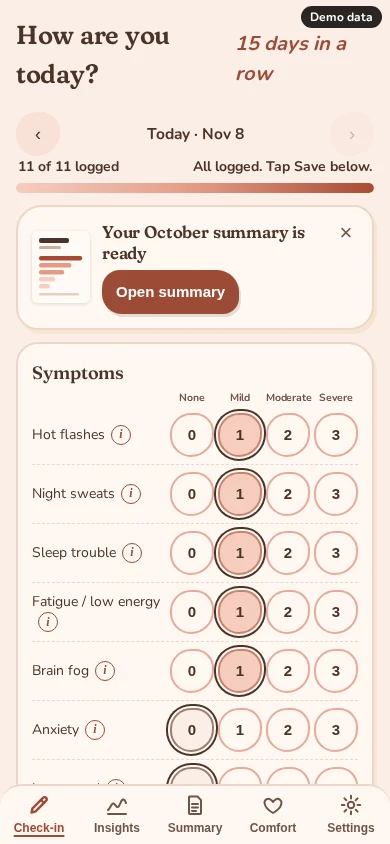
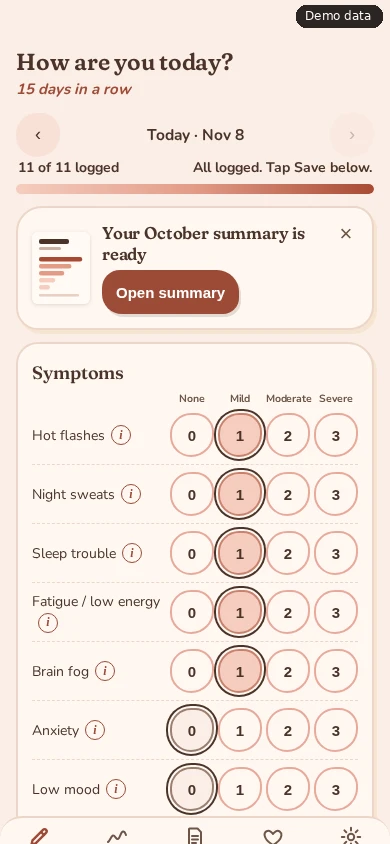
Stack narrow check-in header and separate demo badges from screenshots

diff --git a/index.html b/index.html
@@ -36,10 +36,10 @@ section{padding:56px 0}section.alt{background:var(--card);border-block:1px solid
 .accent{font-family:Nunito,Arial,sans-serif;font-style:italic;color:var(--terra);font-size:clamp(13px,4.2vw,18px);line-height:1.25;margin:0 0 8px;display:block}
 .hero{display:grid;gap:36px;align-items:center;padding:24px 0 48px}
 @media(min-width:860px){.hero{grid-template-columns:1.1fr .9fr}.cols{display:grid;grid-template-columns:1fr 1fr;gap:48px;align-items:center}.three{display:grid;grid-template-columns:repeat(3,1fr);gap:24px}}
-.phone{margin:0 auto;max-width:300px;position:relative}
+.phone{margin:36px auto 0;max-width:300px;position:relative}
 .phone img{width:100%;height:auto;display:block;border-radius:28px;border:8px solid #2b2523;box-shadow:0 18px 40px rgba(60,40,30,.18);background:#fff}
 .phone.flat img{border-radius:16px;border-width:1px;border-color:var(--line)}
-.demo{position:absolute;top:14px;right:-6px;background:#2b2523;color:#fff;font-size:13px;font-weight:800;letter-spacing:.04em;padding:4px 10px;border-radius:999px}
+.demo{position:absolute;top:-32px;right:0;background:#2b2523;color:#fff;font-size:13px;font-weight:800;letter-spacing:.04em;padding:4px 10px;border-radius:999px}
 figcaption{font-size:15px;color:var(--mute);text-align:center;margin-top:10px}
 .prob{list-style:none;padding:0;margin:0;display:grid;gap:14px}.prob li{background:var(--card);border:1px solid var(--line);border-radius:18px;padding:16px 18px}
 .step{background:var(--card);border:1px solid var(--line);border-radius:22px;padding:20px;margin-bottom:20px}.step b.n{display:inline-grid;place-items:center;width:34px;height:34px;border-radius:50%;background:var(--rose);color:var(--terraD);margin-right:8px}

diff --git a/sw.js b/sw.js
@@ -1,9 +1,9 @@
-// Root service worker, retired in peri-v30 (Nov 2026). The app moved to /app/ (its own SW, scope /app/).
+// Root service worker, retired in peri-v31 (Nov 2026). The app moved to /app/ (its own SW, scope /app/).
 // Older installs registered this file with scope "/" and would keep serving the old app over the landing page.
 // This version: takes over at once, deletes old root app caches, unregisters itself, and reloads open windows
 // so they get the network copy (landing page, which sends home-screen launches on to /app/).
 // It never touches localStorage, so her entries (key periTracker.v1, same origin) are untouched.
-const KEEP=['peri-v30'];// the /app/ SW's cache; nights-*/strong-* are not peri-* so untouched
+const KEEP=['peri-v31'];// the /app/ SW's cache; nights-*/strong-* are not peri-* so untouched
 self.addEventListener('install',()=>self.skipWaiting());
 self.addEventListener('activate',e=>{e.waitUntil((async()=>{
  const k=await caches.keys();await Promise.all(k.filter(x=>x.startsWith('peri-')&&!KEEP.includes(x)).map(x=>caches.delete(x)));

diff --git a/app/sw.js b/app/sw.js
@@ -1,4 +1,4 @@
-const C='peri-v30',A=['./','index.html','manifest.webmanifest','icon-192.png','icon-512.png','icon-512-maskable.png','icon-180.png','../privacy.html','../health-data.html','../terms.html','../accessibility.html','fonts/fraunces-latin.woff2','fonts/nunito-latin.woff2'];
+const C='peri-v31',A=['./','index.html','manifest.webmanifest','icon-192.png','icon-512.png','icon-512-maskable.png','icon-180.png','../privacy.html','../health-data.html','../terms.html','../accessibility.html','fonts/fraunces-latin.woff2','fonts/nunito-latin.woff2'];
 self.addEventListener('install',e=>{e.waitUntil(caches.open(C).then(c=>c.addAll(A)))});
 self.addEventListener('message',e=>{if(e.data&&e.data.type==='SKIP_WAITING')self.skipWaiting()});
 self.addEventListener('activate',e=>{e.waitUntil(caches.keys().then(k=>Promise.all(k.filter(x=>x.startsWith('peri-')&&x!==C).map(x=>caches.delete(x)))));self.clients.claim()});

diff --git a/app/index.html b/app/index.html
@@ -316,6 +316,10 @@ nav button.on span{text-decoration:underline;text-underline-offset:3px;text-deco
 html[data-theme=dark] .emptyc .dots i.f{background:#d98a73;border-color:#f4b49b}
 </style>
 
+<style>
+/* Give the check-in title and streak their own rows on phones. */
+@media(max-width:480px){#v-today>.top{flex-direction:column;align-items:flex-start;gap:4px;margin-bottom:14px}#v-today>.top h1{font-size:clamp(22px,6vw,28px);line-height:1.2;margin:0}#v-today #streakTop{font-size:15px;line-height:1.25;white-space:nowrap}}
+</style>
 </head>
 <body>
 <div id="toast" class="saved"></div>

diff --git a/tests/today_header_test.py b/tests/today_header_test.py
@@ -1,0 +1,18 @@
+from pathlib import Path
+from playwright.sync_api import sync_playwright
+import subprocess,sys,time
+root=Path(__file__).resolve().parents[1]
+srv=subprocess.Popen([sys.executable,'-m','http.server','8845'],cwd=root,stdout=subprocess.DEVNULL,stderr=subprocess.DEVNULL);time.sleep(.6)
+try:
+ with sync_playwright() as p:
+  b=p.chromium.launch()
+  for w in [320,360,390,412,430]:
+   pg=b.new_page(viewport={'width':w,'height':915})
+   pg.goto('http://localhost:8845/app/');pg.evaluate("S.onb=true;S.instSeen=true;S.lang='en';persist()");pg.reload();pg.evaluate("show('today');$('streakTop').textContent='15 days in a row'")
+   assert pg.locator('#v-today .top h1').evaluate('e=>e.getBoundingClientRect().height<=parseFloat(getComputedStyle(e).lineHeight)+1'),f'title wraps at {w}'
+   assert pg.locator('#streakTop').evaluate('e=>e.getBoundingClientRect().height<=parseFloat(getComputedStyle(e).lineHeight)+1'),f'streak wraps at {w}'
+   assert pg.evaluate("$('streakTop').getBoundingClientRect().top >= document.querySelector('#v-today .top h1').getBoundingClientRect().bottom"),f'not stacked at {w}'
+   pg.close()
+  b.close()
+finally:srv.terminate();srv.wait()
+print('PASS Today header stacked without wrapping at 320–430px')
